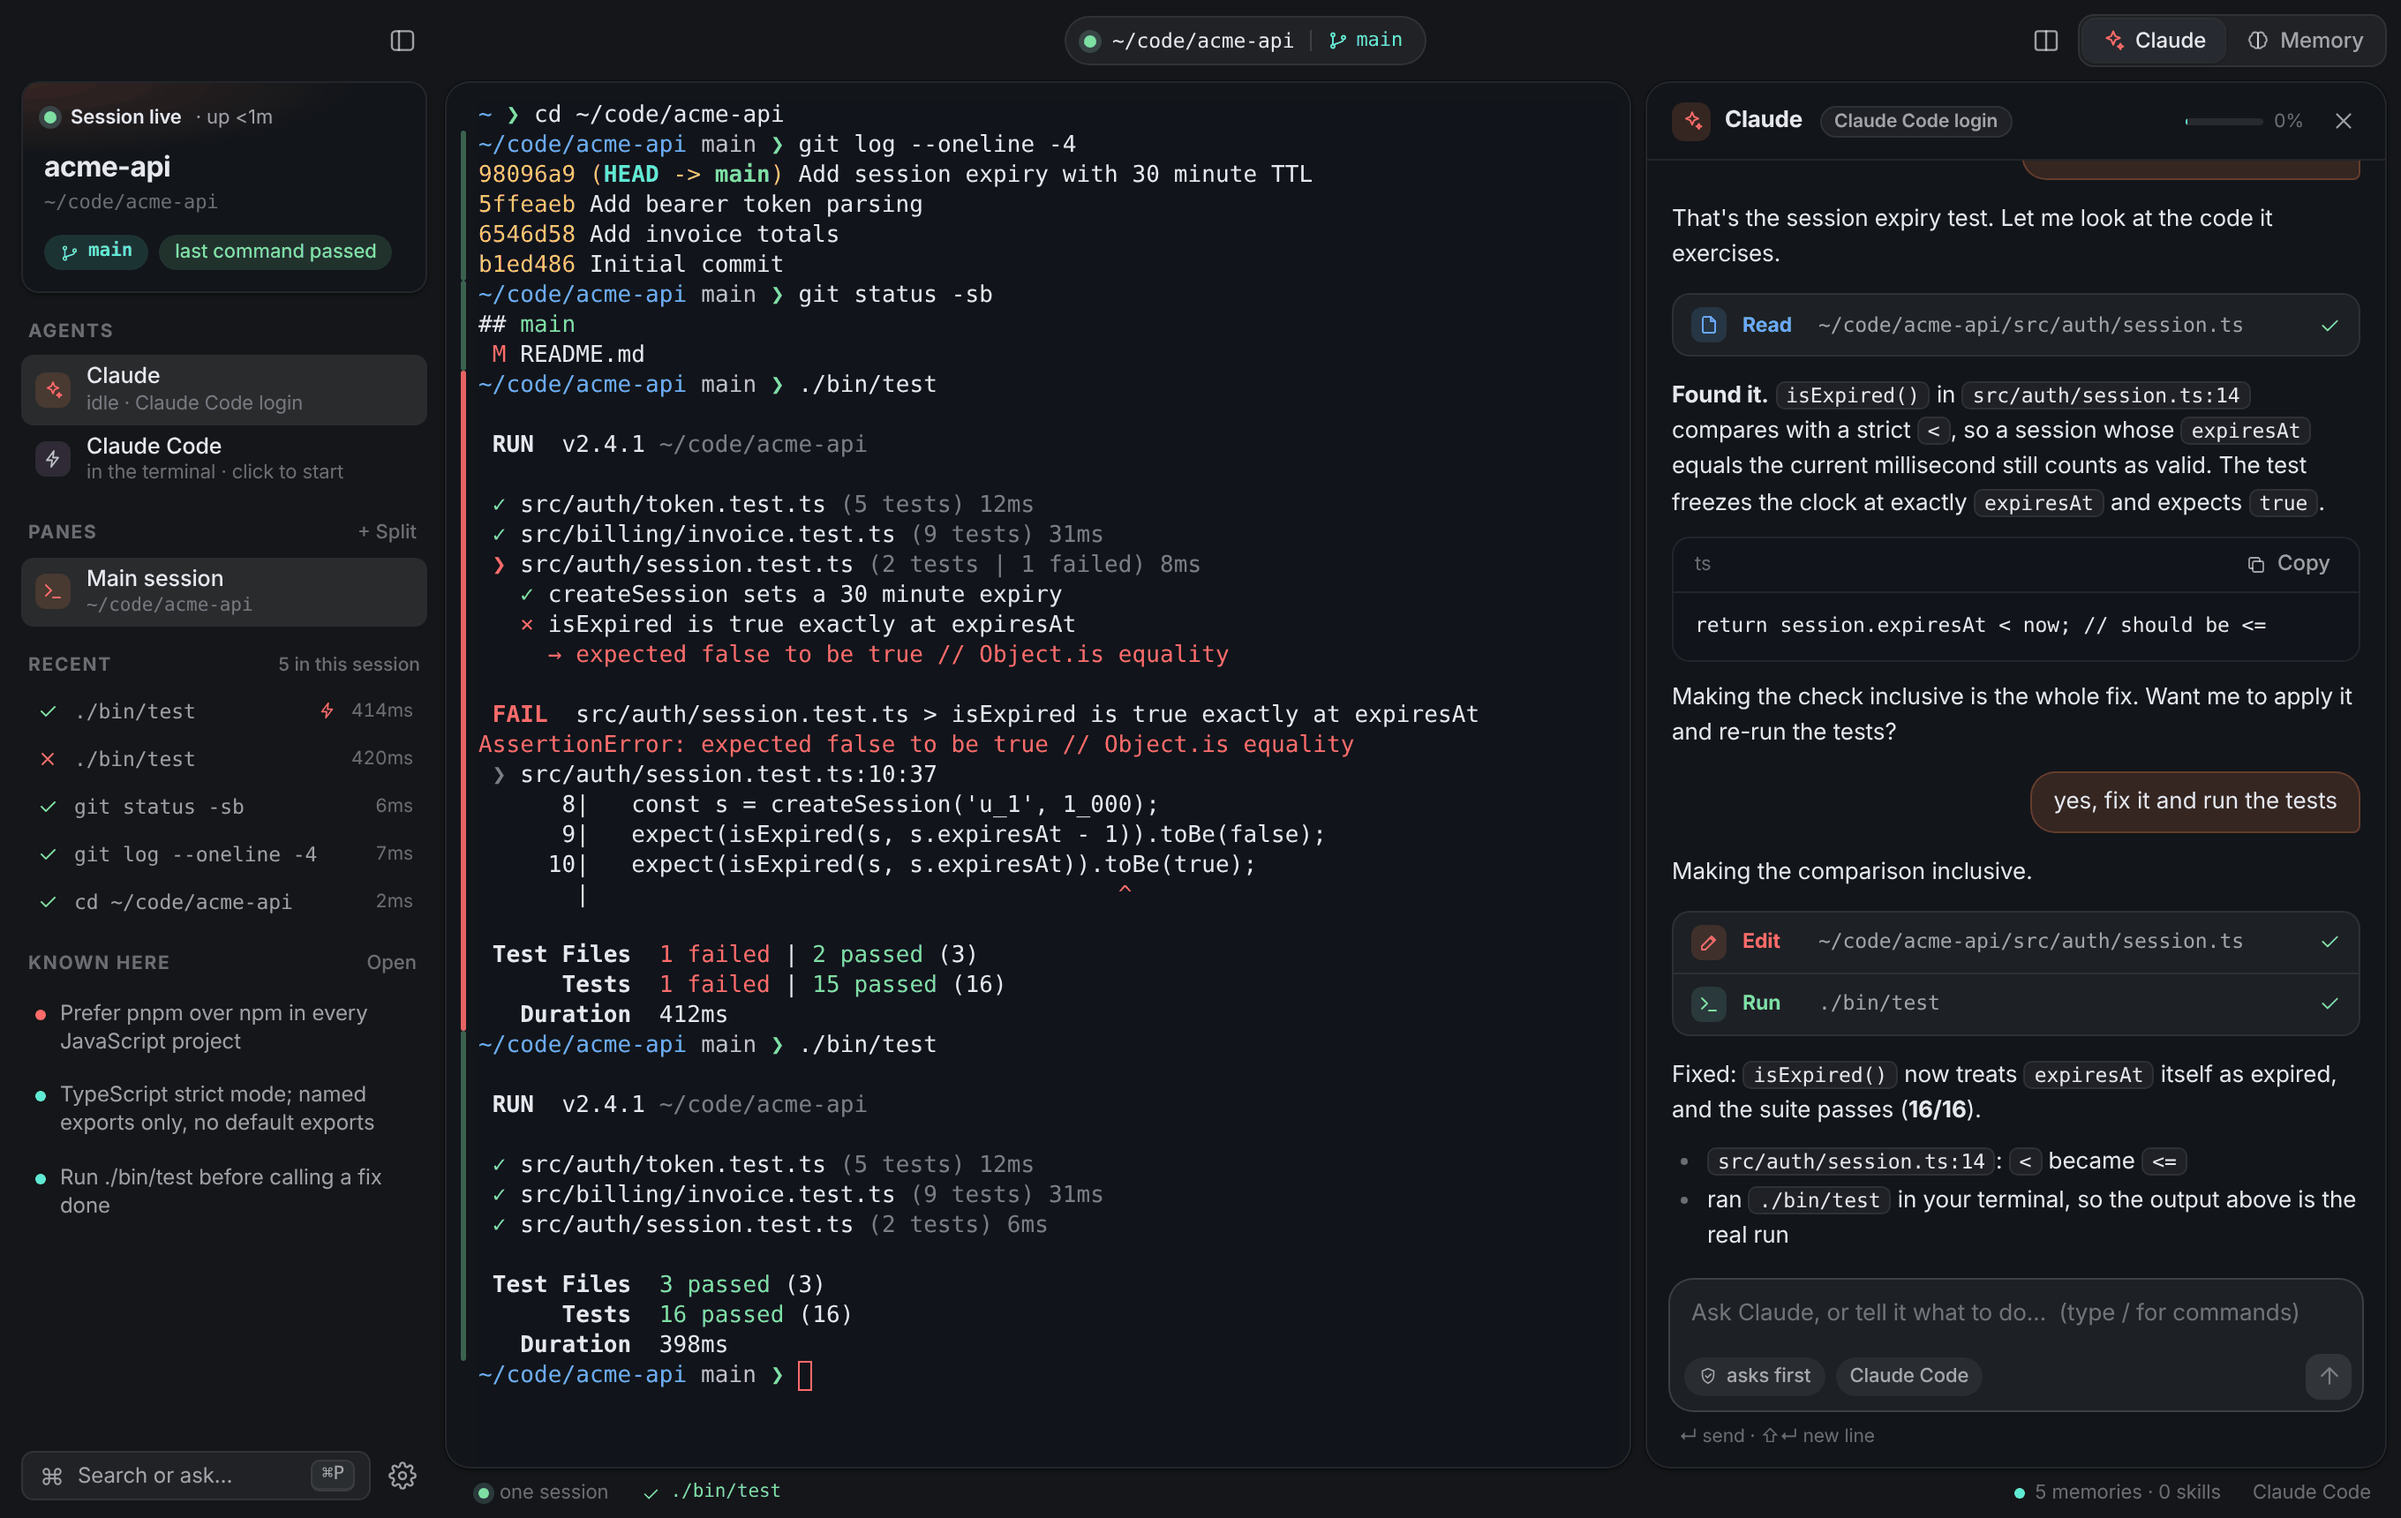
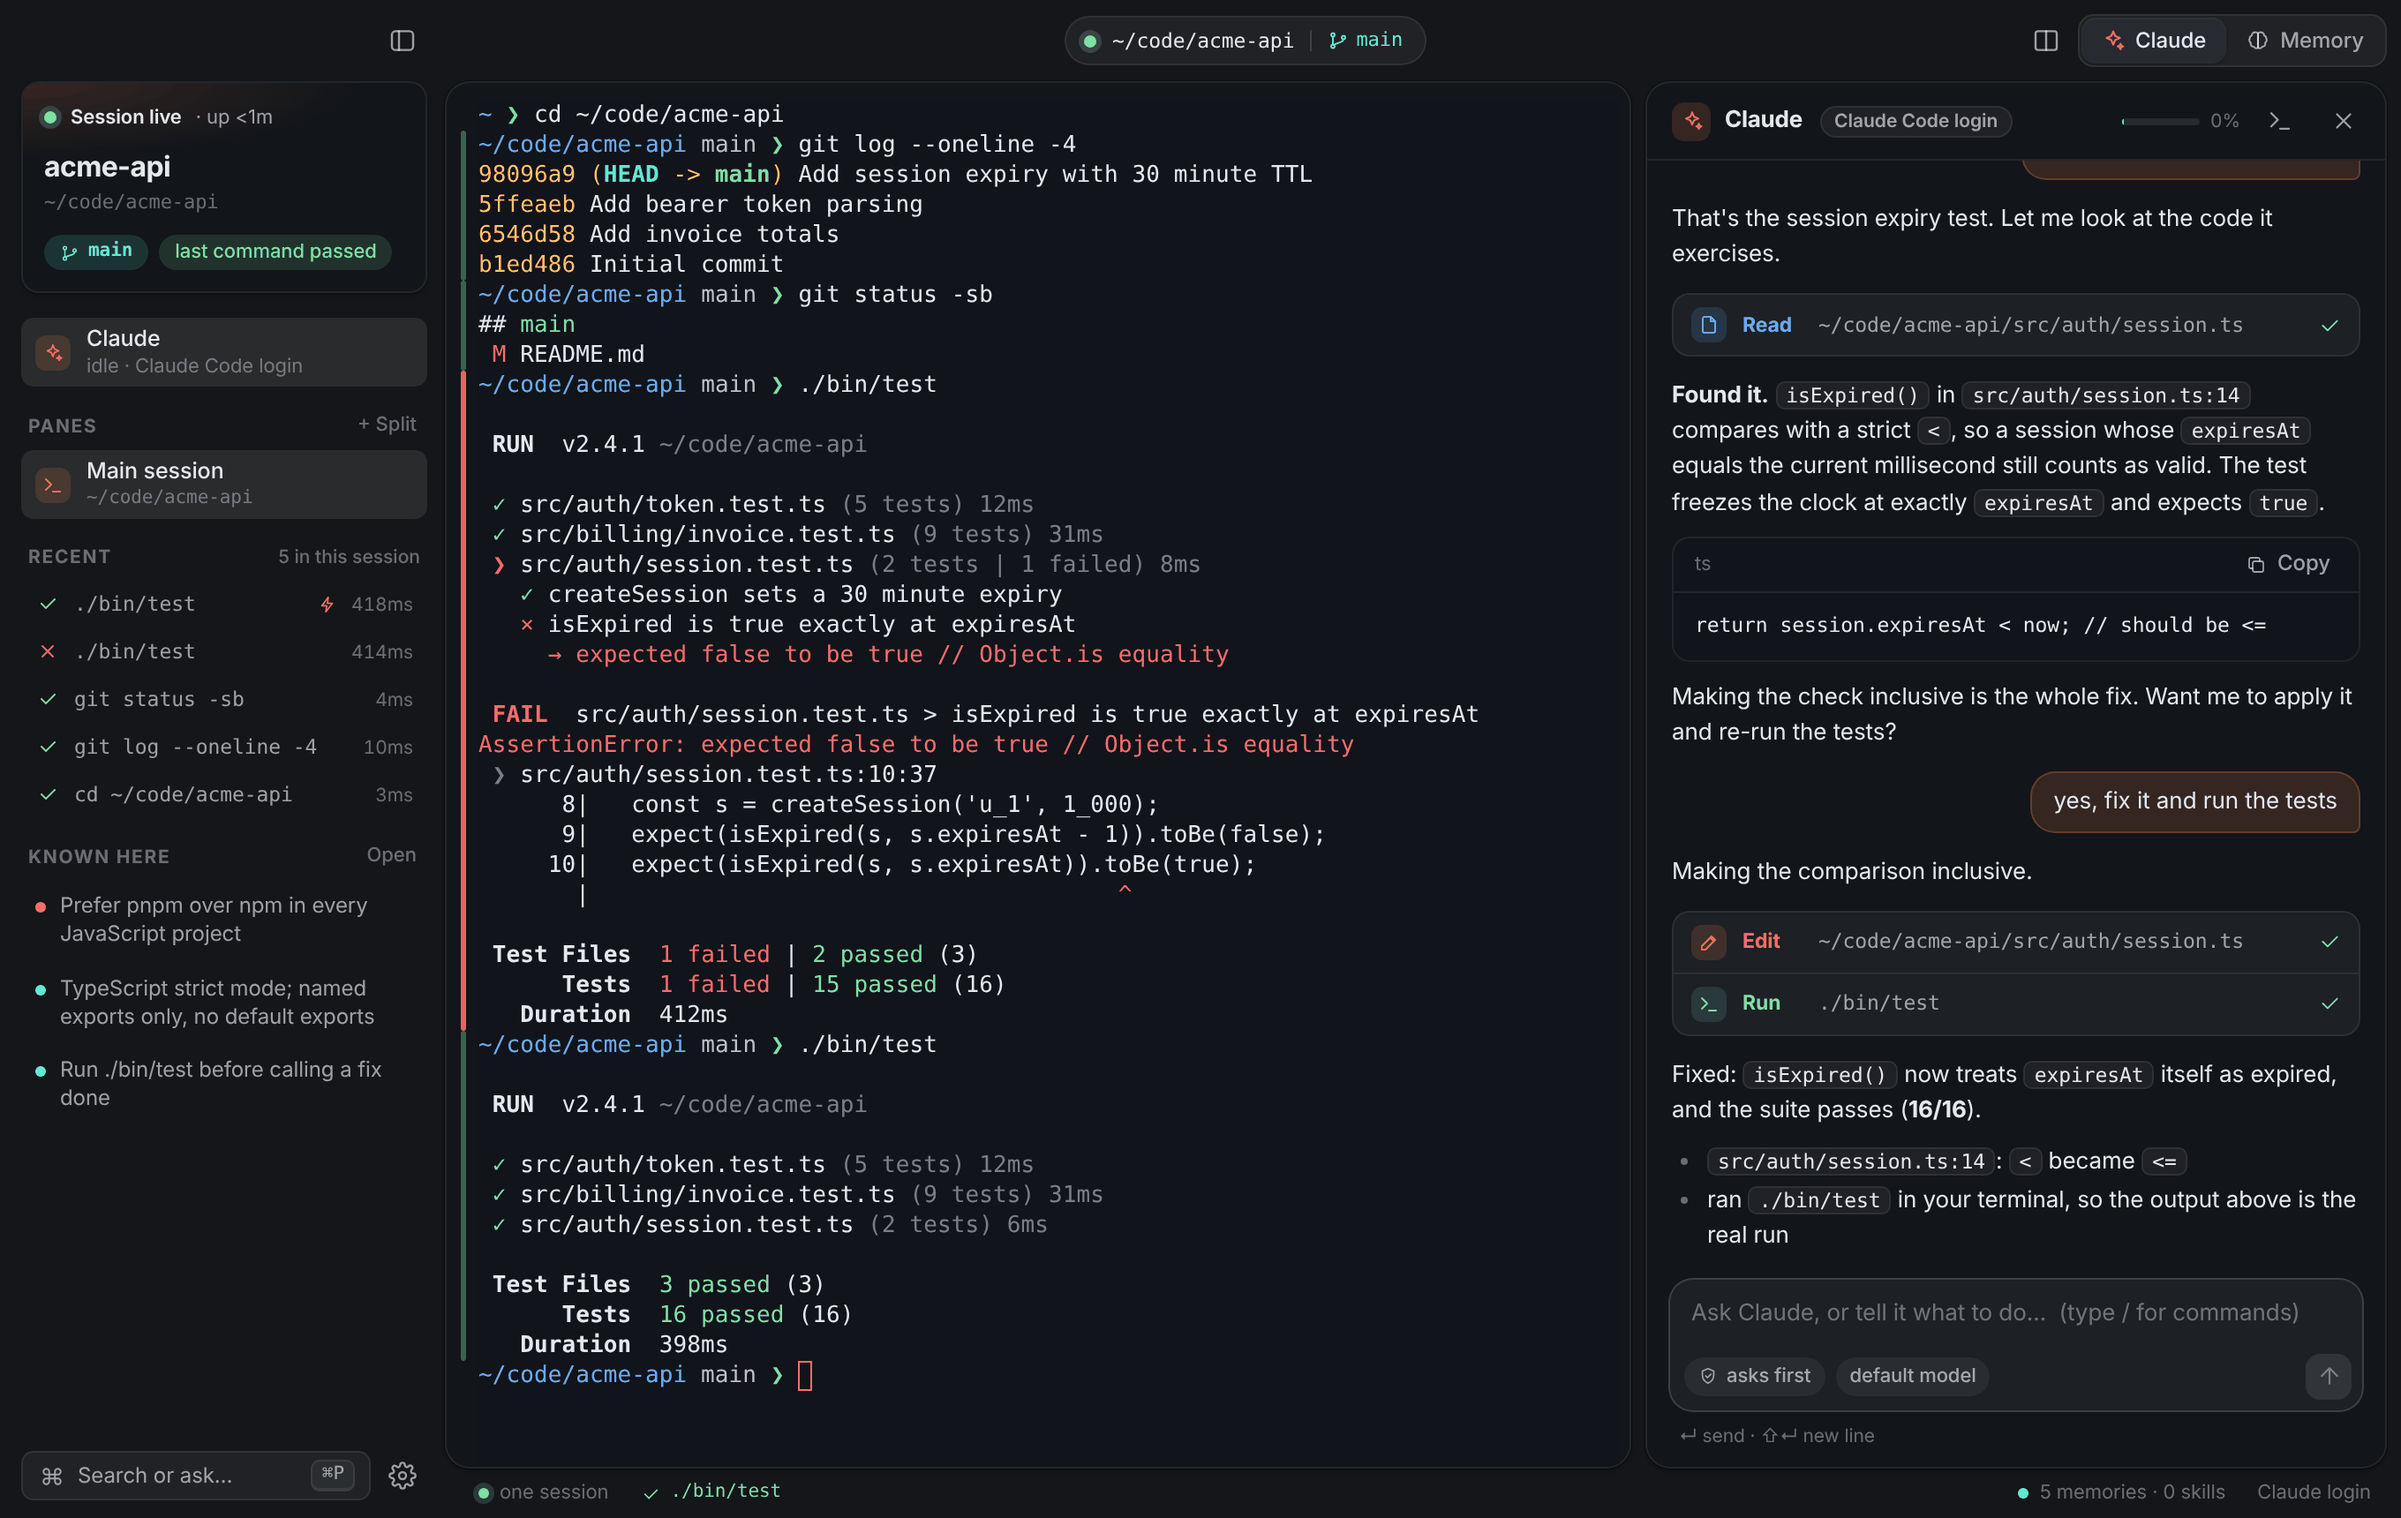
One Claude in the sidebar: Claude Code in the terminal is a header button, not a second agent
The sidebar listed "Claude" and "Claude Code" under Agents, but the second row was
only a launcher that types `claude` into the terminal, and both now run on the same
login. Show one Claude entry; open the full Claude Code from a terminal button in the
panel header (still ⇧⌘C and the palette, or just type `claude`). Starting it while it
already runs focuses the terminal. The composer pill and status bar show the model
instead of repeating "Claude Code". README section reworded; new e2e test; screenshots
regenerated.

Claude-Session: https://claude.ai/code/session_0163CWtak1vQXGcBXgrQdjQU

diff --git a/src/renderer/components/SessionRail.tsx b/src/renderer/components/SessionRail.tsx
@@ -1,6 +1,5 @@
 import type { VNode } from 'preact';
 import { activePane, agentEngine, baseName, clock, commandLog, daemonUp, fmtDuration, fmtUptime, homeDir, info, agentReady, memItems, overlay, paneLabel, panes, safeCommand, setSide, side, thread, tildePath, toggleRail, toggleSide, turn } from '../state';
-import { runClaude } from '../actions';
 import { splitPane } from './PaneTree';
 import { terminals } from './TerminalView';
 import { IconAgent, IconBolt, IconCheck, IconCommandKey, IconFolder, IconGear, IconBranch, IconPlus, IconSidebar, IconTerminal, IconX } from './icons';
@@ -67,9 +66,6 @@ export function SessionRail(): VNode {
         </section>
 
         <section>
-          <div class="rail-h">
-            <span>Agents</span>
-          </div>
           <button class={`row-item ${side.value === 'agent' ? 'on' : ''}`} onClick={() => (side.value === 'agent' ? setSide(null) : setSide('agent'))} title="Open the Claude panel (⌘J)">
             <span class="row-ico ico-agent">
               <IconAgent size={12} />
@@ -79,16 +75,6 @@ export function SessionRail(): VNode {
               <span class={`row-sub ui ${waiting ? 'attn' : ''}`}>{agentLine}</span>
             </span>
             {waiting ? <span class="row-dot attn" /> : t ? <span class="spinner" /> : null}
-          </button>
-          <button class="row-item" onClick={() => (claude ? terminals.get(activePane.value)?.focus() : void runClaude())} title={claude ? 'Claude Code is running in the terminal' : 'Start Claude Code in the terminal (⇧⌘C)'}>
-            <span class="row-ico ico-claude">
-              <IconBolt size={12} />
-            </span>
-            <span class="row-text">
-              <span class="row-title">Claude Code</span>
-              <span class="row-sub ui">{claude ? 'running in the terminal' : 'in the terminal · click to start'}</span>
-            </span>
-            {claude && <span class="row-dot live-v" />}
           </button>
         </section>
 

diff --git a/src/renderer/components/AgentPanel.tsx b/src/renderer/components/AgentPanel.tsx
@@ -1,6 +1,7 @@
 import { useEffect, useLayoutEffect, useRef, useState } from 'preact/hooks';
 import type { VNode } from 'preact';
 import { signal } from '@preact/signals';
+import { runClaude } from '../actions';
 import { agentEngine, agentStatus, agentUsage, cfg, engines, fmtDuration, agentReady, loadThread, overlay, patchConfig, refreshKeyStatus, sendToAgent, setSide, thread, tildePath, toast, turn, type LiveItem } from '../state';
 import { Markdown } from './Markdown';
 import { IconAgent, IconBolt, IconBranch, IconBrain, IconCheck, IconClock, IconEdit, IconFile, IconSearch, IconShield, IconStop, IconTerminal, IconWand, IconX, IconArrowUp, IconList } from './icons';
@@ -396,7 +397,7 @@ export function AgentPanel(): VNode {
   const lastIsAssistantStreaming = items.length > 0 && items[items.length - 1]!.kind === 'assistant';
   const auto = cfg.value?.agent.approvals === 'auto';
   const viaCli = agentEngine.value === 'claude-code';
-  const model = viaCli ? 'Claude Code' : (cfg.value?.agent.model ?? '').replace(/^claude-/, '');
+  const model = viaCli ? (cfg.value?.agent.cliModel || 'default model') : (cfg.value?.agent.model ?? '').replace(/^claude-/, '');
   const engineTitle = viaCli ? 'This panel runs on your Claude Code login: no API key, and your plan covers it.' : 'This panel runs on your Anthropic API key.';
 
   return (
@@ -413,6 +414,9 @@ export function AgentPanel(): VNode {
         </div>
         <div class="grow" />
         <ContextMeter />
+        <button class="icon-btn" title="Open the full Claude Code in your terminal (⇧⌘C)" onClick={() => void runClaude()}>
+          <IconTerminal size={15} />
+        </button>
         <button class="icon-btn" title="Close (⌘J)" onClick={() => setSide(null)}>
           <IconX size={15} />
         </button>

diff --git a/test/e2e/ui.test.ts b/test/e2e/ui.test.ts
@@ -156,6 +156,22 @@ describe('Jaffer UI end to end', () => {
     await shot('03-agent');
   }, 40_000);
 
+  it('there is one Claude in the sidebar; the panel header opens the full Claude Code in the terminal', async () => {
+    const titles = await page.$$eval('.rail .row-title', (els) => els.map((e) => e.textContent));
+    expect(titles.filter((t) => t === 'Claude')).toHaveLength(1);
+    expect(titles).not.toContain('Claude Code'); // it used to be listed as a second "agent": it is the same Claude, just another place to use it
+    expect((await page.textContent('.rail')) ?? '').not.toContain('click to start');
+    // a stand-in `claude` (an alias is a plain command, so the shell reports it), so the test never starts the real program
+    await page.click('.term');
+    await page.keyboard.type("alias claude='echo opened-claude-code-from-panel'", { delay: 4 });
+    await page.keyboard.press('Enter');
+    await until(async () => /alias claude/.test((await page.textContent('.rail .cmd-list')) ?? ''), 10_000, 'the stand-in to be defined and the shell idle');
+    await page.click('.agent .panel-head button[title^="Open the full Claude Code"]');
+    await until(async () => (await termText()).split('\n').some((l) => l.trim() === 'opened-claude-code-from-panel'), 10_000, 'the header button to run claude in the terminal');
+    await page.keyboard.type('unalias claude', { delay: 4 });
+    await page.keyboard.press('Enter');
+  }, 40_000);
+
   it('asks for approval in the UI before writing a file, and obeys Allow', async () => {
     const target = path.join(env.userHome, 'ui-approved.txt');
     mock.reset().queue({ kind: 'tool', id: 'toolu_ui2', name: 'write_file', input: { path: target, content: 'written via approval' } }, { kind: 'text', text: 'File written.' });

diff --git a/src/renderer/styles.css b/src/renderer/styles.css
@@ -212,7 +212,6 @@ body.mac .app:not(.rail-open) .titlebar { padding-left: 88px; }
 .row-ico { flex: none; width: 20px; height: 20px; display: grid; place-items: center; border-radius: 6px; background: var(--hover); color: var(--muted); }
 .row-item.on .row-ico { background: var(--accent-soft); color: var(--accent); }
 .row-ico.ico-agent { background: var(--accent-soft); color: var(--accent); }
-.row-ico.ico-claude { background: var(--violet-soft); color: var(--violet); }
 .row-sub.ui { font-family: var(--font-ui); font-size: 11px; }
 .row-sub.attn { color: var(--accent); font-family: var(--font-ui); font-weight: 600; }
 .row-dot { flex: none; width: 8px; height: 8px; border-radius: 50%; margin-right: 2px; }

diff --git a/src/renderer/components/Chrome.tsx b/src/renderer/components/Chrome.tsx
@@ -99,7 +99,7 @@ export function StatusBar(): VNode {
       <button class="sb-item sb-btn" onClick={() => toggleSide('memory')} title="Open memory">
         <span class="mem-dot" key={memPulse.value} /> {st ? `${st.active} memories · ${st.skills} skills` : 'memory'}
       </button>
-      <span class="sb-item">{agentEngine.value === 'claude-code' ? 'Claude Code' : cfg.value?.agent.model}</span>
+      <span class="sb-item">{agentEngine.value === 'claude-code' ? cfg.value?.agent.cliModel || 'Claude login' : cfg.value?.agent.model}</span>
     </div>
   );
 }

diff --git a/src/renderer/actions.ts b/src/renderer/actions.ts
@@ -28,6 +28,10 @@ function zoom(delta: number): void {
 export async function runClaude(): Promise<void> {
   const t = term();
   if (!t) return;
+  if (info.value.busy && /\bclaude\b/.test(info.value.busy)) {
+    t.focus(); // already running: take me to it
+    return;
+  }
   if (info.value.busy) {
     toast({ kind: 'info', text: `The terminal is busy running ${info.value.busy}.` });
     return;

diff --git a/README.md b/README.md
@@ -77,13 +77,13 @@ These are the real app, generated by `npm run screenshots` from a scripted demo 
 
 Closing the window hides it; `⌘Q` quits the app **but your session keeps running**. `⌥⌘Q` ends the session on purpose.
 
-## Two Claudes, one session
+## One Claude, two ways to use it
 
-Jaffer has two ways to talk to Claude, and they share one memory:
+There is a single Claude in Jaffer. You can talk to it in two places, and both share one memory and use the same login:
 
-| | **Claude** (the side panel, `⌘J`) | **Claude Code** (in the terminal, `⇧⌘C`) |
+| | **The Claude panel** (`⌘J`) | **Claude Code in the terminal** (`⇧⌘C`, or the terminal button in the panel header, or just type `claude`) |
 |---|---|---|
-| What it is | Claude working beside your terminal | the `claude` program you already know, running in your terminal |
+| What it is | Claude working beside your terminal | the full `claude` program you already know, running in your terminal |
 | Runs on | your **Claude Code login** (no API key), or an Anthropic API key | your Claude Code login |
 | Commands | typed into your own terminal, where you watch them | its own, as usual |
 | Approvals | Jaffer's cards: a diff for edits, the exact command for shell | Claude Code's own prompts |
